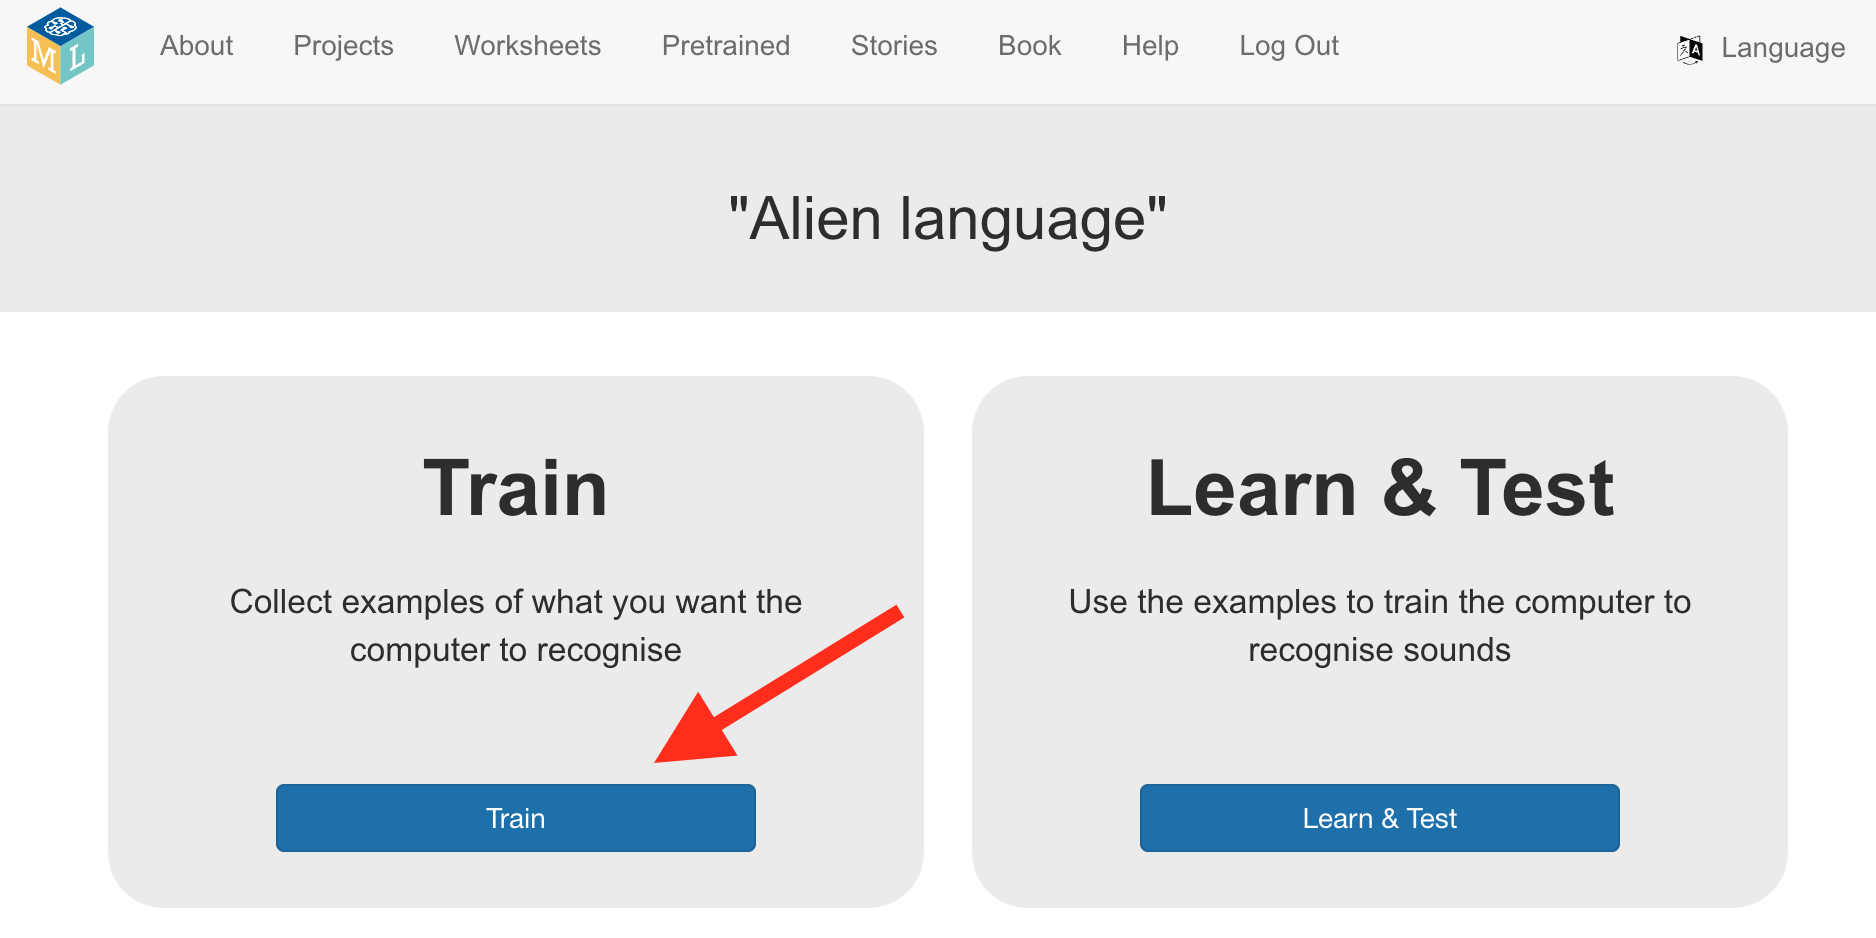
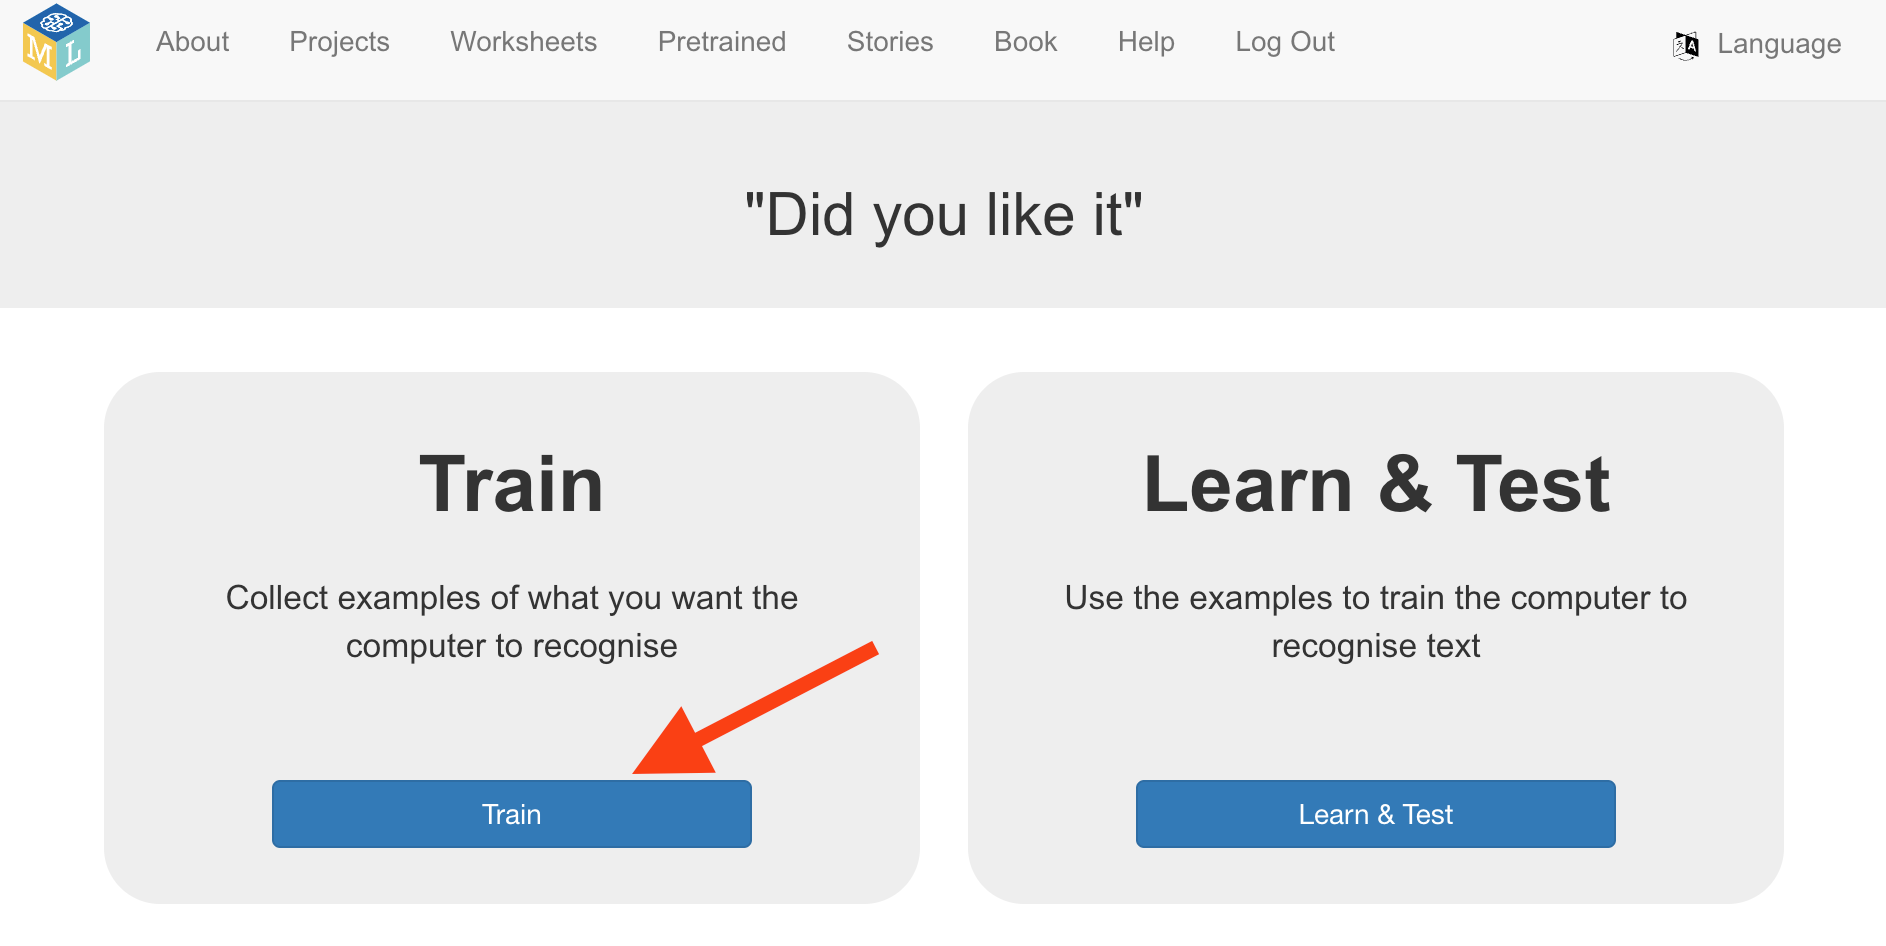
Update 3

diff --git a/en/step_3.md b/en/step_3.md
@@ -1,39 +1,25 @@
-## Collect examples for training
+## Example comments
 
-Next, try a better approach: teaching the computer to recognise messages for itself.
+Your machine learning model needs some examples of positive and negative comments people might make about movies. 
 
 --- task ---
-+ Close the Scratch window and go back to the Machine Learning for Kids website.
-
-+ Click on **< Back to project**.
++ Click on **+ Add new label** and create a label called `positive`.
 --- /task ---
 
 --- task ---
-+ You need to collect some examples to train the computer. Click the **Train** button.
-![Project main menu](images/project-make.png)
++ Click on **+ Add example** inside the box for the new `positive` label, and type in the nicest comment about a movie or book that you can think of. 
 
-+ Click on **+ Add new label** and call it `positive comments`.  Do that again, and create a second bucket called `negative comments`. 
-![2 empty classes named positive_comments and negative_comments](images/positive-and-negative.png)
-
-+ Click on the **Add example** button in the **positive comments** bucket, and type in the nicest comment about a movie or book that you can think of. 
-
-+ Click on the **Add example** button in the **negative comments** bucket, and type in the meanest comment about a movie or book that you can think of. 
++ Repeat until you have added **at least six examples** of positive comments.
 --- /task ---
 
 --- task ---
-+ Continue to **Add examples** until you have got at least **six** compliments and **six** insults.
++ Click on **+ Add new label** again, and this time create a label called `negative`.
+
++ Add **six examples** of negative comments. 
+--- /task ---
+
 ![6 examples of positive comments: "The cast were brilliant", "The plot was great", "The scenes were awesome", "The story sparked my imagination", "I loved the main character", "The soundtrack rocked" and 6 examples of negative comments: "The cast were awful", "The plot made no sense", "The scenes were too dark", "The story was boring", "I hated the main character", "The soundtrack put me to sleep"](images/example-messages.png)
 
---- collapse ---
----
-title: Tips for creating good examples
----
-+ **More is good**: The more examples you give your program, the better the program should get at determining whether your comments are positive or negative. 
 
-+ **Equal numbers**: Add roughly the same number of examples for each type of comment. If you have a lot of examples for one type and not the other, this can affect the way that the program learns to recognise them. 
 
-+ **Make the examples really different from each other**: Try to think of lots of different types of example. For example, make sure that you include some long examples and some very short ones.
- 
---- /collapse ---
---- /task ---
 

diff --git a/en/step_1.md b/en/step_1.md
@@ -1,6 +1,6 @@
 ## Introduction
 
-Create a character that will determine whether you liked or disliked a movie or book based on what you say, and react appropriately.
+Create a character that will react to what you say about a movie or book, either positive or negative.
 
 --- no-print ---
 ![Complete project](images/did-you-like-it.gif)
